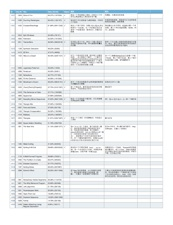
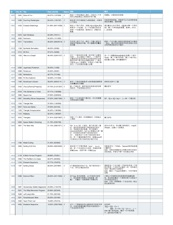
Add 1197 1463

diff --git a/1463/1463.cpp b/1463/1463.cpp
@@ -1,0 +1,115 @@
+//
+//  1463.cpp
+//  Code for ZOJ
+//
+//  Created by Orpine on 13-11-9.
+//  Copyright (c) 2013年 Orpine. All rights reserved.
+//
+
+//Header
+#include <cstdio>
+#include <cstdlib>
+#include <cstring>
+#include <cmath>
+#include <ctime>
+
+#include <iostream>
+#include <algorithm>
+#include <vector>
+#include <set>
+#include <map>
+#include <string>
+#include <queue>
+#include <stack>
+
+using namespace std;
+
+//Macro
+#define rep(i, a, b) for (size_t i = a; i <= b; ++i)
+#define drep(i, a, b) for (size_t i = a; i >= b; --i)
+#define irep(i, e, x) for (size_t i = x; i; i = e[i].next)
+#define sqr(x) ((x) * (x))
+
+typedef long long ll;
+const int oo = ~0u>>2;
+const double inf = 1e300;
+const double eps = 1e-6;
+
+//Variable
+char s[108];
+int f[108][108], g[108][108];
+char tmp[10];
+int n, T;
+//Program
+string Gets(int l, int r, int k)
+{
+	if (l > r) return "";
+	if (k == 0) {
+        char str[10] = {0};
+		if (s[r] == '(') {
+			str[1] = s[r];
+			str[2] = s[r] + 1;
+		} else if (s[r] == ')') {
+			str[1] = s[r] - 1;
+			str[2] = s[r];
+		} else if (s[r] == '[') {
+			str[1] = s[r];
+			str[2] = s[r] + 2;
+        } else {
+			str[1] = s[r] - 2;
+			str[2] = s[r];
+        }
+		return Gets(l, r - 1, g[l][r - 1]) + (str + 1);
+	} else {
+        string ret = Gets(l, k - 1, g[l][k - 1]);
+        char tmp[2] = {0};
+        tmp[0] = s[k];
+        ret += tmp;
+        ret += Gets(k + 1, r - 1, g[k + 1][r - 1]);
+        tmp[0] = s[r];
+        ret += tmp;
+		return ret;
+	}
+}
+void Work()
+{
+    memset(f, 0 ,sizeof f);
+    memset(g, 0, sizeof g);
+    getchar();
+    gets(s + 1);
+	n = strlen(s + 1);
+	
+	for (int i = 1; i <= n; i++) {
+		f[i][i] = 1;
+		g[i][i] = 0;
+	}
+	
+	for (int l = 1; l <= n - 1; l++) {
+		for (int i = 1; i + l <= n; i++) {
+			int j = i + l;
+			f[i][j] = f[i][j - 1] + 1;
+			g[i][j] = 0;
+			for (int k = i; k < j; k++) {
+				if ((s[j] == ')' && s[k] == '(') || (s[j] == ']' && s[k] == '[')) {
+					if (f[i][j] > f[i][k - 1] + f[k + 1][j - 1]) {
+                        f[i][j] = f[i][k - 1] + f[k + 1][j - 1];
+						g[i][j] = k;
+					}
+                    //					f[i][j] = min(f[i][j], f[i][k - 1] + f[k + 1][j - 1]);
+				}
+			}
+		}
+	}
+	cout << Gets(1, n, g[1][n]) << endl;
+}
+int main()
+{
+    scanf("%d%*c", &T);
+	for(int i = 0; i < T; i++) {
+        if (i) {
+            cout << endl;
+        }
+		Work();
+	}
+    return 0; 
+}

diff --git a/1197/1197.cpp b/1197/1197.cpp
@@ -1,0 +1,116 @@
+//
+//  1197.cpp
+//  Code for ZOJ
+//
+//  Created by Orpine on 13-11-9.
+//  Copyright (c) 2013年 Orpine. All rights reserved.
+//
+
+//Header
+#include <cstdio>
+#include <cstdlib>
+#include <cstring>
+#include <cmath>
+#include <ctime>
+
+#include <iostream>
+#include <algorithm>
+#include <vector>
+#include <set>
+#include <map>
+#include <string>
+#include <queue>
+#include <stack>
+
+using namespace std;
+
+//Macro
+#define rep(i, a, b) for (size_t i = a; i <= b; ++i)
+#define drep(i, a, b) for (size_t i = a; i >= b; --i)
+#define irep(i, e, x) for (size_t i = x; i; i = e[i].next)
+#define sqr(x) ((x) * (x))
+
+typedef long long ll;
+const int oo = ~0u>>2;
+const double inf = 1e300;
+const double eps = 1e-6;
+
+//Variable
+struct R
+{
+	int x1, x2, y1, y2;
+	void init()
+	{
+		scanf("%d%d%d%d", &x1, &x2, &y1, &y2);
+	}
+	void checkin(int x, int y)
+	{
+		return x1 <= x && x <= x2 && y1 <= y && y <= y2;
+	}
+}rect[1008];
+int n;
+vector< pair< char, int > > ans;
+int in[1008];
+//Program
+void Work() {
+	
+	ans.clear();
+	memset(in, 0, sizeof in);
+	queue<int> q;
+	
+	for (int i = 1; i <= n; i++) {
+		rect[i].init();
+	}
+	for (int i = 1; i <= n; i++) {
+		scanf("%d%d", &num[i][0], &num[i][1]);
+	}
+	for (int i = 1; i <= n; i++) {
+		for (int j = 1; j <= n; j++) {
+			if (rect[j].checkin(num[i][0], num[i][1])) {
+				in[i]++;
+			}
+		}
+	}
+	for (int i = 1; i <= n; i++) {
+		if (in[i] == 1) {
+			q.push(i);
+		}
+	}
+	
+	int x;
+	while(!q.empty()) {
+		x = q.front();
+		q.pop();
+		for (int i = 1; i <= n; i++) {
+			if (checked[i]) continue;
+			if (rect[i].checkin(num[x][0], num[x][1])) {
+				ans.push_back(make_pair(i + 'A' - 1, x));
+				checked[i] = true;
+				for (int j = 1; j <= n; j++) {
+					if (rect[i].checkin(num[j][0], num[j][1])) {
+						in[j]--;
+						if (in[j] == 1) {
+							q.push(j);
+						}
+					}
+				}
+				break;
+			}
+		}
+	}
+	if (ans.size() == 0) {
+		printf("none\n\n");
+	} else {
+		sort(ans.begin(), ans.end());
+		for (int i = 0; i < ans.size(); i++) {
+			printf("(%c,%d)", ans[i].first, ans[i].second);
+		}
+	}
+}
+int main()
+{
+	while (scanf("%d", &n), n != 0) {
+		Work();
+	}
+    return 0; 
+}
